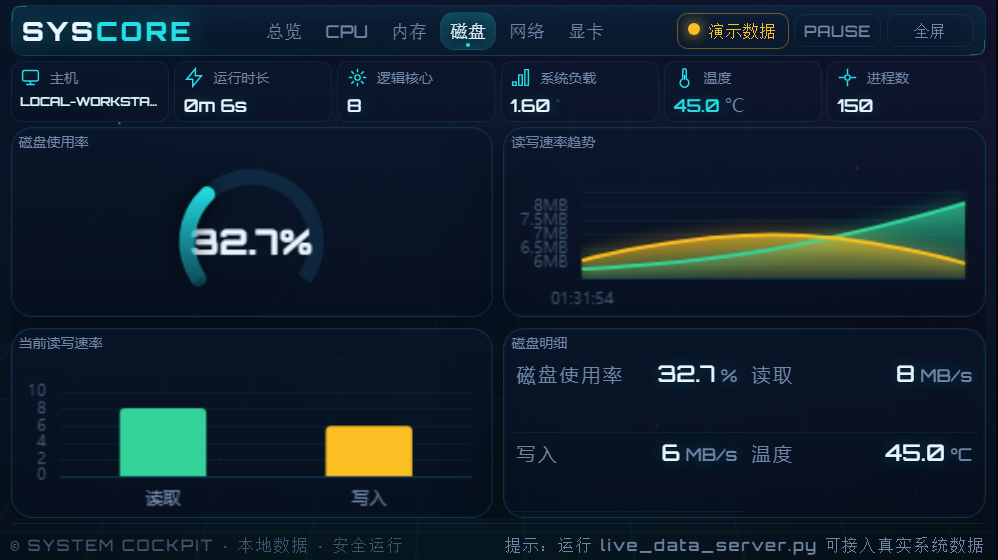
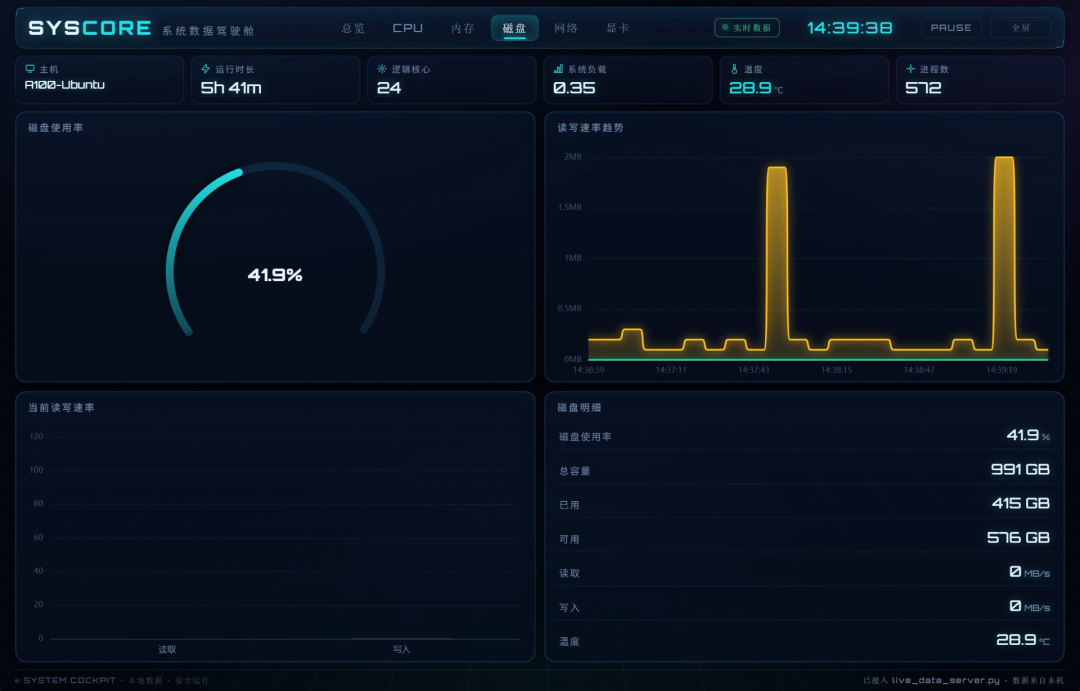
docs: 更新六个界面截图至最新版，README 界面预览重排为各界面独立小节

diff --git a/README.md b/README.md
@@ -13,15 +13,35 @@
 
 ## 界面预览
 
+### 总览（单屏）
 ![系统数据驾驶舱 - 总览](assets/shots/shot1.png)
 
-### 更多界面
+横屏单屏：CPU / 内存 / 磁盘 / 网络 四大仪表盘 + 负载趋势 + 系统负载雷达 + 核心占用 + TOP 进程。检测到 NVIDIA 显卡时自动显示第五张 GPU 利用率卡（无 GPU 时保持四卡不变）。
 
-| | |
-|---|---|
-| ![总览](assets/shots/shot1.png) | ![CPU 详情](assets/shots/shot2.png) |
-| ![内存详情](assets/shots/shot3.png) | ![磁盘详情](assets/shots/shot4.png) |
-| ![网络详情](assets/shots/shot5.png) | ![显卡详情](assets/shots/shot6.png) |
+### CPU 详情
+![CPU 详情](assets/shots/shot2.png)
+
+各核心占用率、历史趋势、各核心负载热力图、进程 CPU 占用 Top5。
+
+### 内存详情
+![内存详情](assets/shots/shot3.png)
+
+占用趋势、已用/空闲环形图、进程内存占用 Top5、内存明细。
+
+### 磁盘详情
+![磁盘详情](assets/shots/shot4.png)
+
+使用率仪表、读写速率趋势、当前读写柱状图、磁盘明细（总容量 / 已用 / 可用）。
+
+### 网络详情
+![网络详情](assets/shots/shot5.png)
+
+吞吐趋势、流量分布环形图、当前速率、网络明细。
+
+### 显卡详情
+![显卡详情](assets/shots/shot6.png)
+
+GPU 利用率仪表、显存占用环形图、利用率/温度趋势、GPU 明细。
 
 ---
 
